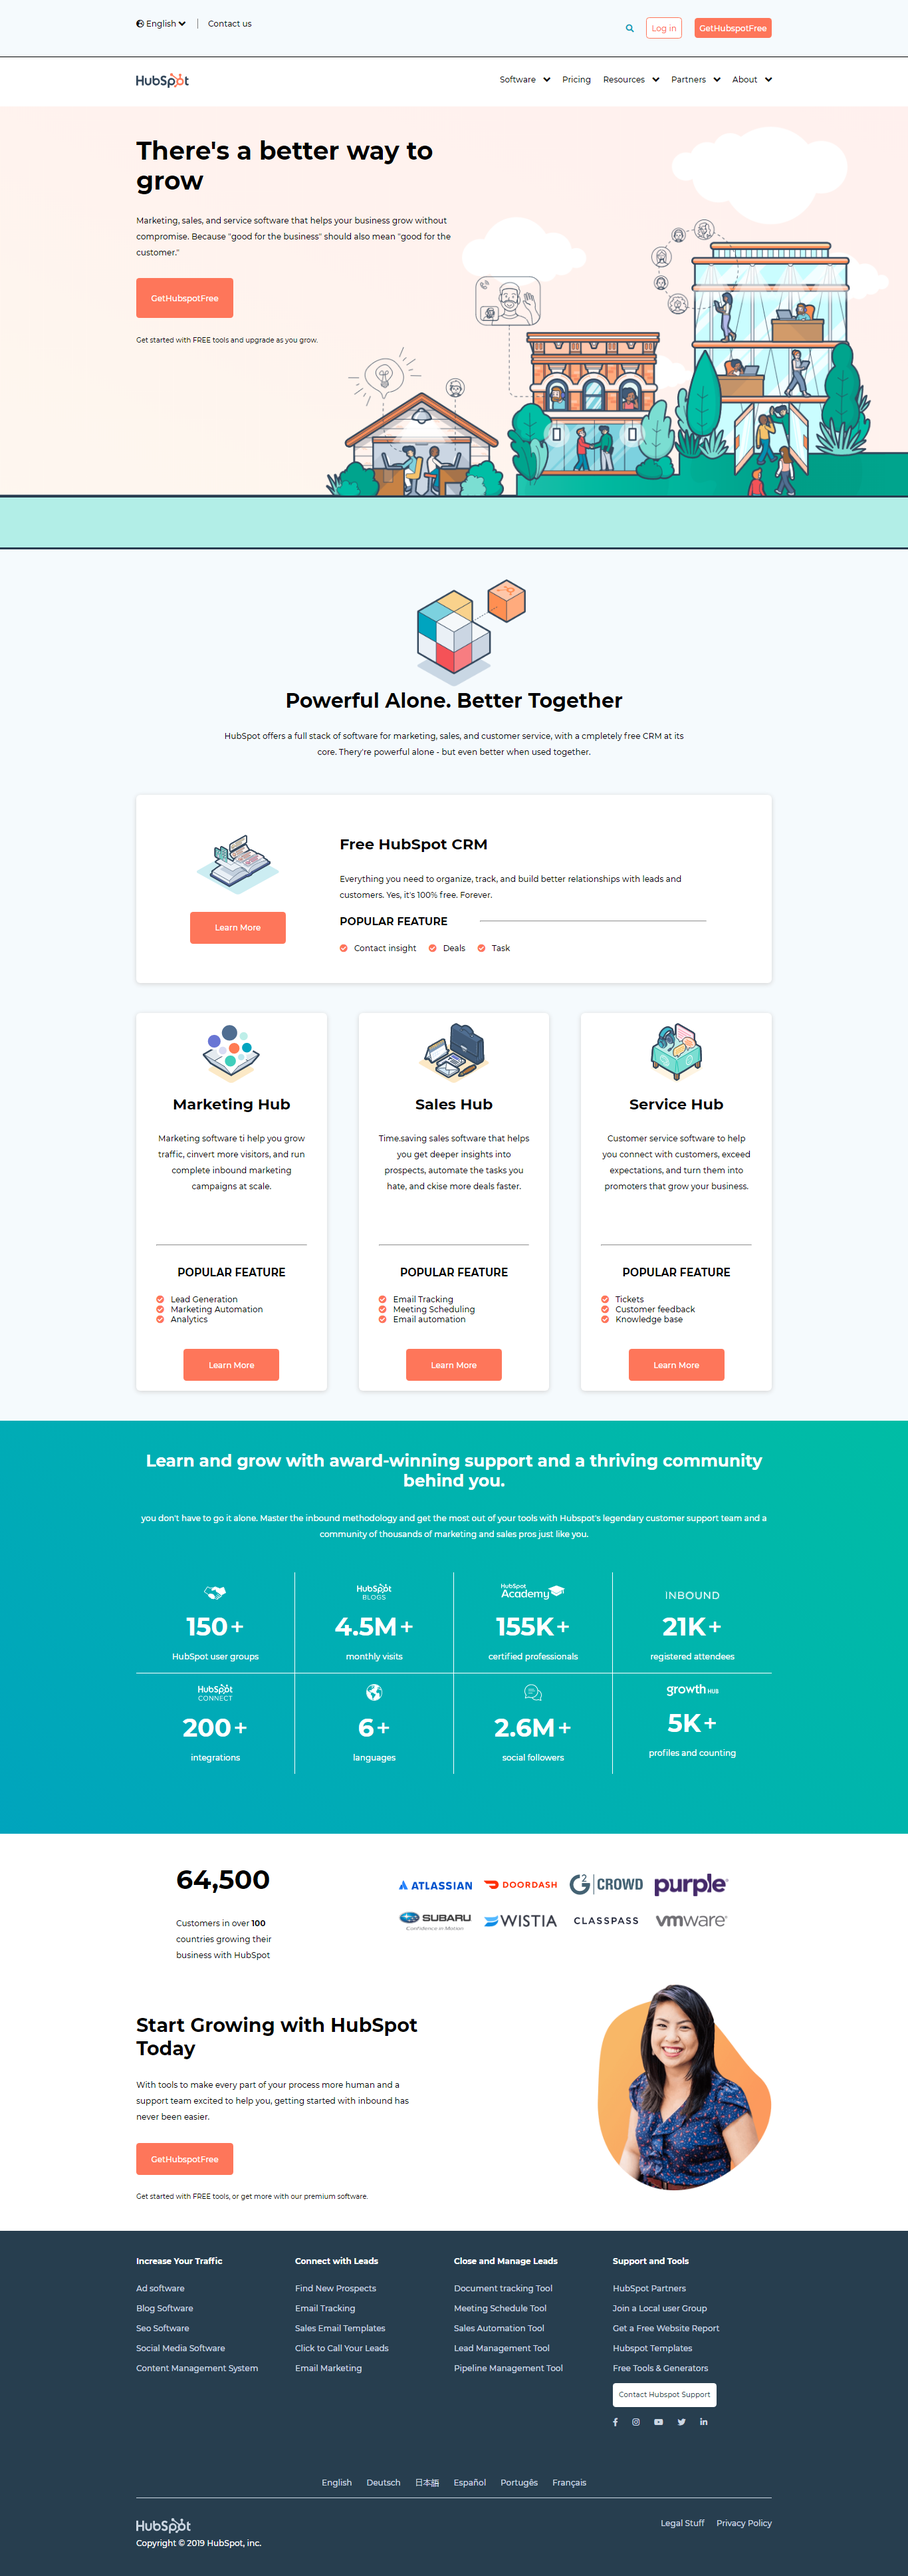
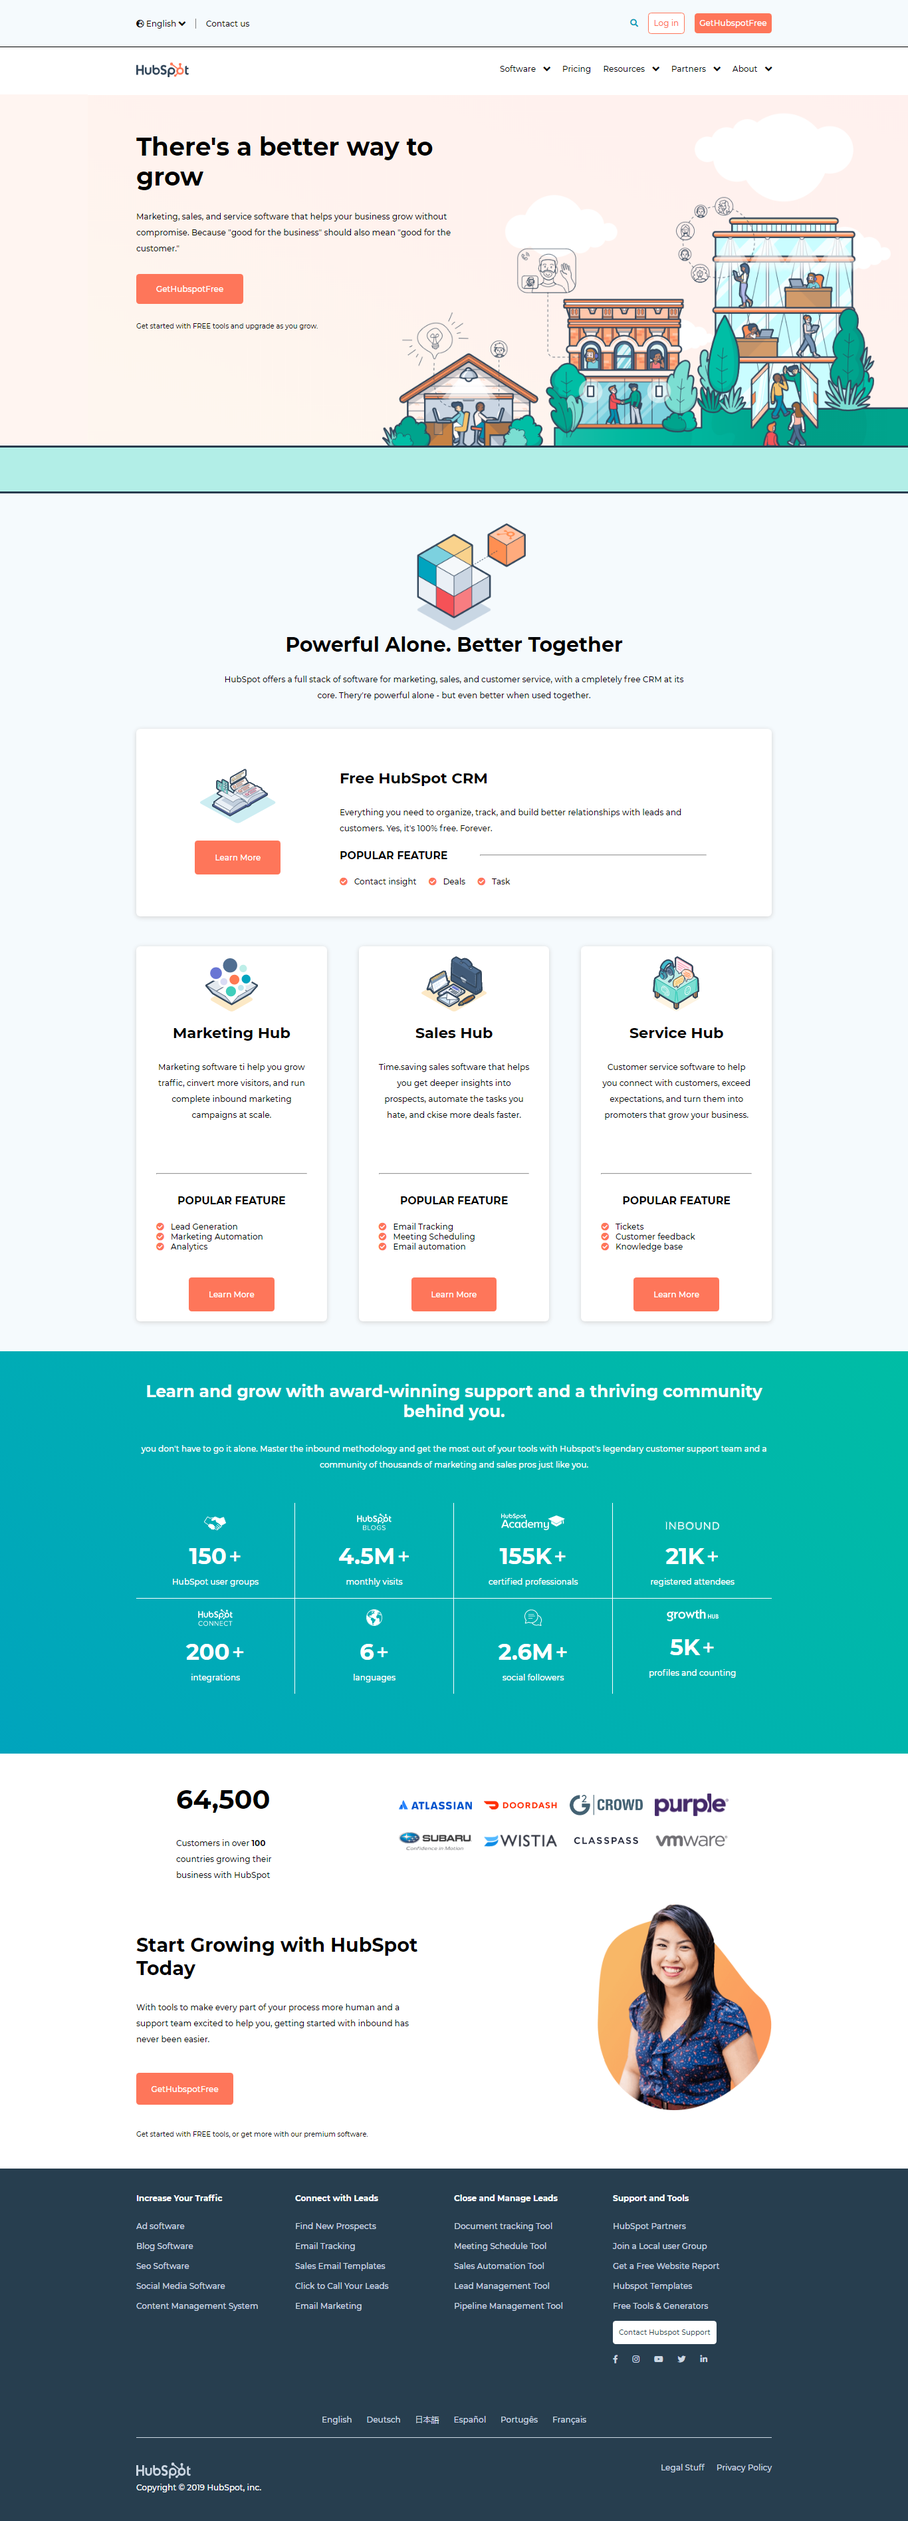
Ritocchi

diff --git a/css/style.css b/css/style.css
@@ -56,23 +56,22 @@ header .fas.fa-angle-down {
 
 header .top-bar {
   background-color: #F5FAFD;
-  padding: 35px 0;
+  padding: 25px 0;
   border-bottom: 2px solid black;
+  font-size: 0;
 }
 
-header .top-bar li, header .main-nav li {
-  display: inline-block;
-}
 
-header .top-bar li:not(:last-child) {
+header .top-bar .link-top:not(:last-child) {
   margin-right: 20px;
 }
 
 header .top-bar .language-contact {
+  padding-top: 10px;
   float: left;
 }
 
-header .top-bar .language-contact li:last-of-type {
+header .top-bar .language-contact .link-top:last-of-type {
   padding-left: 20px;
   border-left: 1px solid grey;
 }
@@ -89,12 +88,25 @@ header .top-bar .fas.fa-search {
   color: #00A1BA;
 }
 
+header .top-bar .link-top {
+  display: inline-block;
+  font-size: 16px;
+}
+
+header .top-bar .language-contact .link-top {
+  vertical-align: text-bottom;
+}
+
 header .main-nav {
-  padding: 31.5px 0;
+  padding: 30px 0;
 }
 
 header .main-nav ul {
   float: right;
+}
+
+header .main-nav li {
+  display: inline-block;
 }
 
 header .main-nav li:not(:last-child) {
@@ -111,22 +123,17 @@ header .main-nav li span {
 
 header .hero {
   position: relative;
-}
-
-header .hero img {
-  position: relative;
-  bottom: 0;
-  right: 0;
-  transform: translate(10%, 0%);
-  z-index: 1;
-  width: 90%;
+  height: 800px;
+  background: url(../img/jumbotron.png);
+  background-size: contain;
+  background-position: bottom right;
+  background-repeat: no-repeat;
+  background-color: #FFF5F1;
 }
 
 header .hero .hero-text {
-  padding-top: 60px;
-  position: absolute;
-  z-index: 2;
-  width: 35%;
+  padding-top: 75px;
+  width: 51%;
 }
 
 header .hero .hero-text > * {
@@ -140,7 +147,7 @@ header .hero .hero-text h1 {
 }
 
 header .hero .hero-text .btn {
-  padding: 30px;
+  padding: 20px 40px;
   display: inline-block;
 }
 
@@ -148,11 +155,11 @@ header .hero .hero-horizontal-layer {
   background-color: #B2EEE7;
   border-bottom: 4px solid #283C4F;
   border-top: 4px solid #283C4F;
-  height: 108px;
+  height: 96px;
   width: 100%;
   position: absolute;
   bottom: 0;
-  z-index: 2;
+  z-index: 1;
 }
 /* /HEADER SETTINGS */
 
@@ -166,7 +173,7 @@ main .products-section .slogan-title {
   width: 75%;
   text-align: center;
   margin: auto;
-  margin-bottom: 70px;
+  margin-bottom: 50px;
 }
 
 main .products-section .slogan-title img {
@@ -199,11 +206,11 @@ main .products-section .col:nth-child(4) {
 
 main .products-section .col img {
   margin-bottom: 20px;
-  height: 120px;
+  height: 110px;
 }
 
 main .products-section .col .btn {
-  padding: 22px 50px;
+  padding: 24px 40px;
 }
 
 main .products-section .col h3 {
@@ -311,13 +318,14 @@ main .table-section .row .box:not(:last-child) {
   border-right: 1px solid white;
 }
 
-main .table-section .row .box > *:not(:last-child) {
+main .table-section .row .box img {
   margin-bottom: 20px;
 }
 
 main .table-section .row .box .table-counter {
-  font-size: 50px;
+  font-size: 45px;
   font-weight: 600;
+  margin-bottom: 15px;
 }
 
 main .table-section .row .box .table-counter span {
@@ -379,18 +387,17 @@ main .bottom-section .grow-with-hubspot .grow-text > * {
   display: block;
 }
 
-main .bottom-section .grow-with-hubspot .grow-text > *:not(small) {
-  margin-bottom: 35px;
-}
-
 main .bottom-section .grow-with-hubspot .grow-text h4 {
   font-size: 38px;
   font-weight: 700;
+  margin-bottom: 40px;
 }
 
 main .bottom-section .grow-with-hubspot .grow-text .btn {
   padding: 22px 30px;
   display: inline-block;
+  margin-bottom: 50px;
+  margin-top: 50px;
 }
 
 main .bottom-section .grow-with-hubspot img {
@@ -400,7 +407,7 @@ main .bottom-section .grow-with-hubspot img {
 
 footer {
   background-color: #273E4F;
-  padding: 50px 0px 70px;
+  padding: 50px 0px 60px;
   color: white;
 }
 
@@ -410,7 +417,7 @@ footer a:not(.btn) {
 
 footer .languages-services-links {
   border-bottom: 1px solid #CCD7E3;
-  margin-bottom: 40px;
+  margin-bottom: 50px;
 }
 
 footer .languages-services-links .links-col {
@@ -460,7 +467,7 @@ footer .fab {
 footer .languages-services-links .languages-links {
   text-align: center;
   margin-top: 80px;
-  margin-bottom: 20px;
+  margin-bottom: 25px;
 }
 
 footer .languages-services-links .languages-links li {

diff --git a/index.html b/index.html
@@ -16,15 +16,15 @@
     <header>
       <section class="top-bar clearfix">
         <div class="container">
-          <ul class="language-contact">
-            <li><i class="fas fa-globe-europe"></i> English <i class="fas fa-angle-down"></i></li>
-            <li><a href="#">Contact us</a></li>
-          </ul>
-          <ul class="login-search">
-            <li><i class="fas fa-search"></i></li>
-            <li><a class="btn btn-inverted" href="#">Log in</a></li>
-            <li><a class="btn elem-orange" href="#">GetHubspotFree</a></li>
-          </ul>
+          <div class="language-contact">
+            <div class="link-top"><i class="fas fa-globe-europe"></i> English <i class="fas fa-angle-down"></i></div>
+            <div class="link-top"><a href="#">Contact us</a></div>
+          </div>
+          <div class="login-search">
+            <div class="link-top"><i class="fas fa-search"></i></div>
+            <div class="link-top"><a class="btn btn-inverted" href="#">Log in</a></div>
+            <div class="link-top"><a class="btn elem-orange" href="#">GetHubspotFree</a></div>
+          </div>
         </div>
       </section>
       <nav class="main-nav clearfix">
@@ -48,7 +48,6 @@
             <small>Get started with FREE tools and upgrade as you grow.</small>
           </div>
         </div>
-        <img src="img/jumbotron.png" alt="Hero image">
         <div class="hero-horizontal-layer">
         </div>
       </section>
